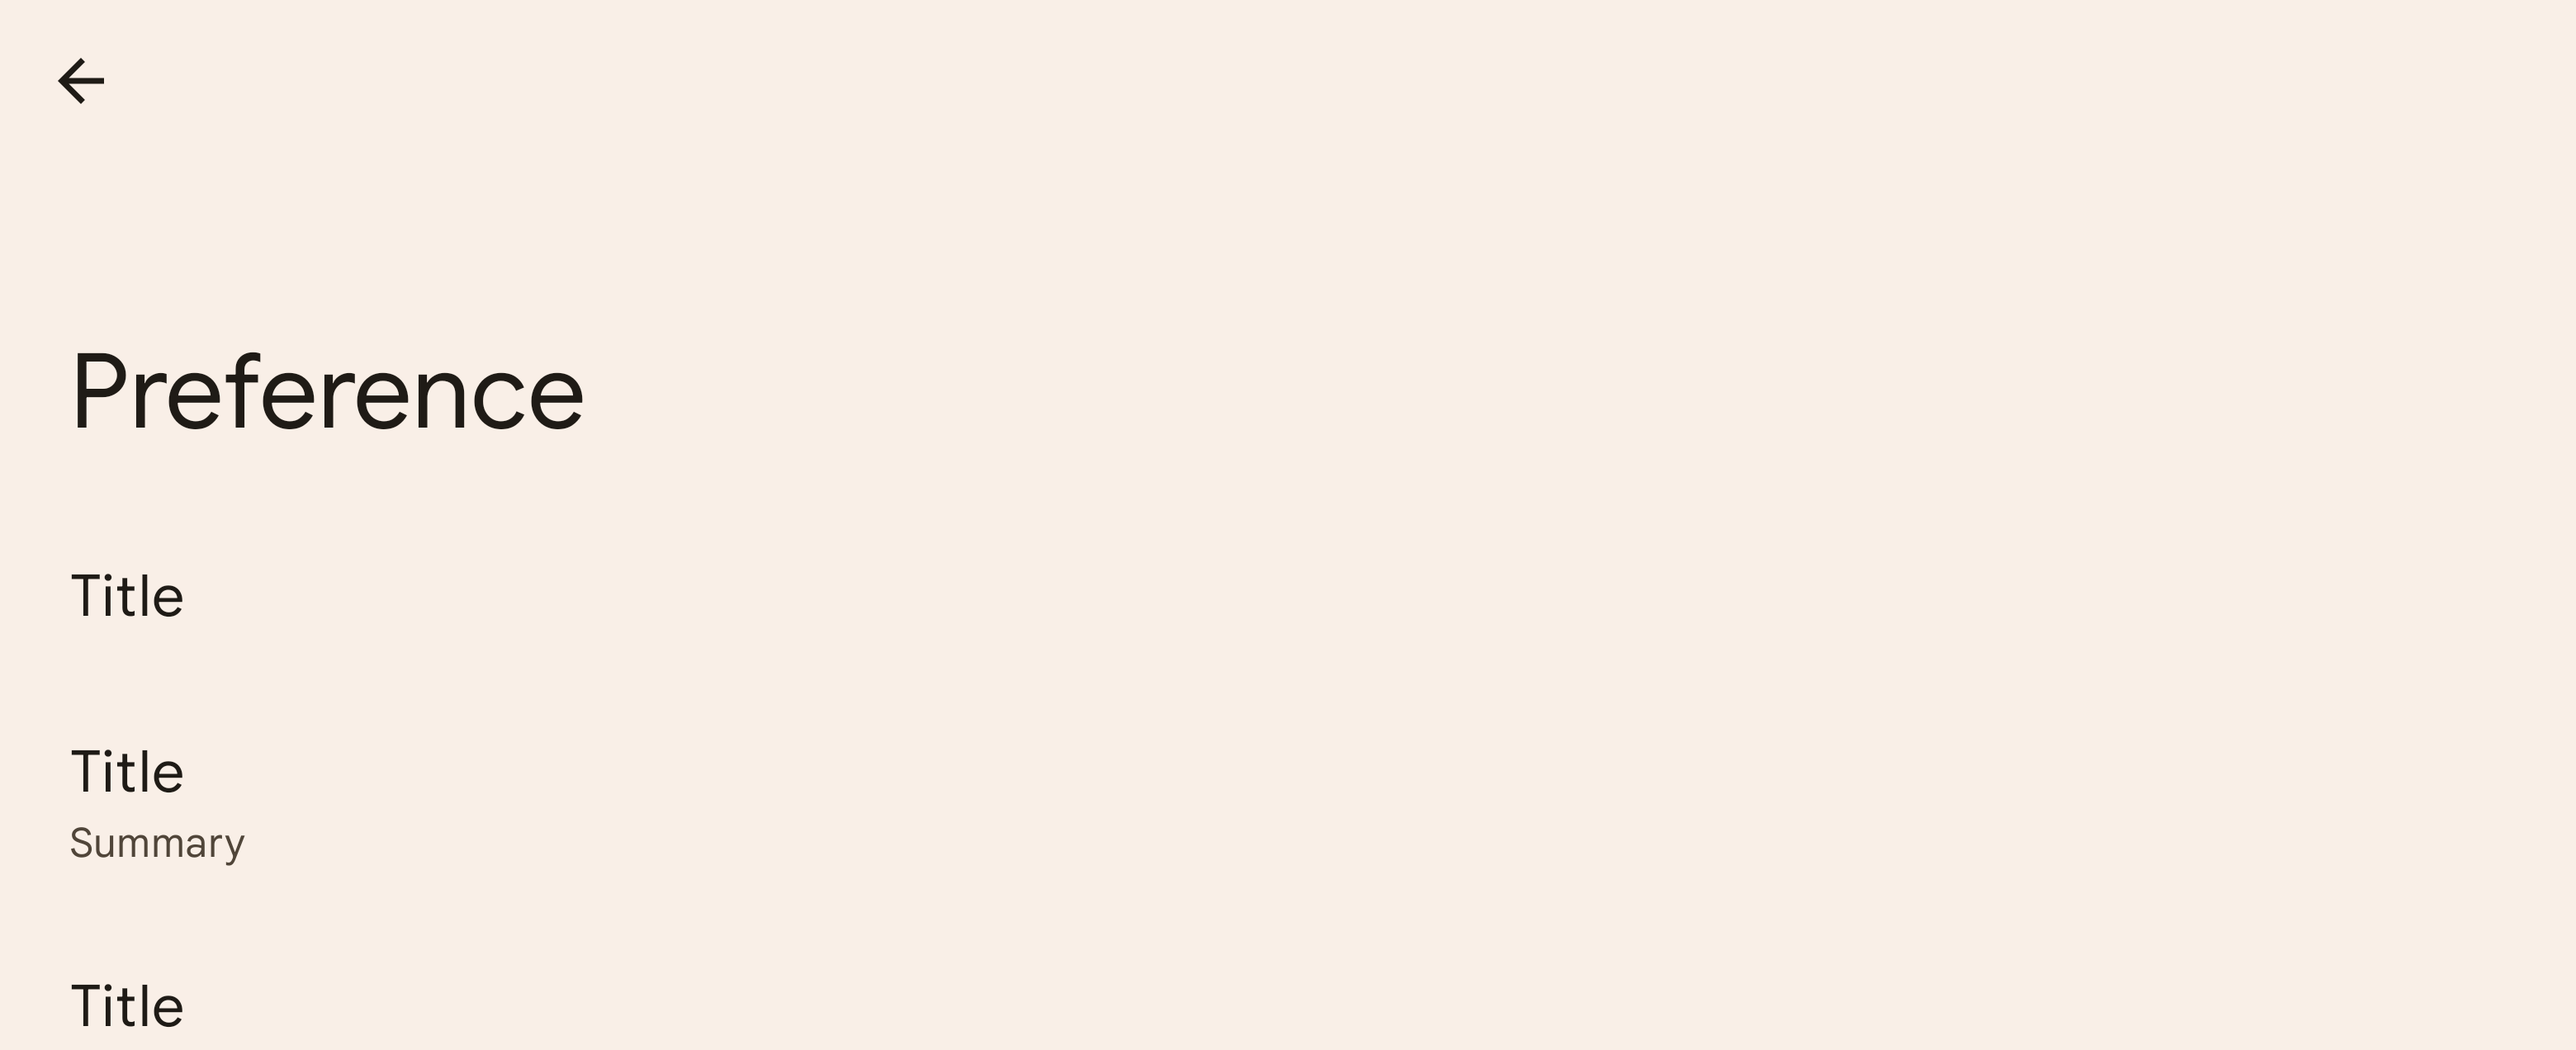
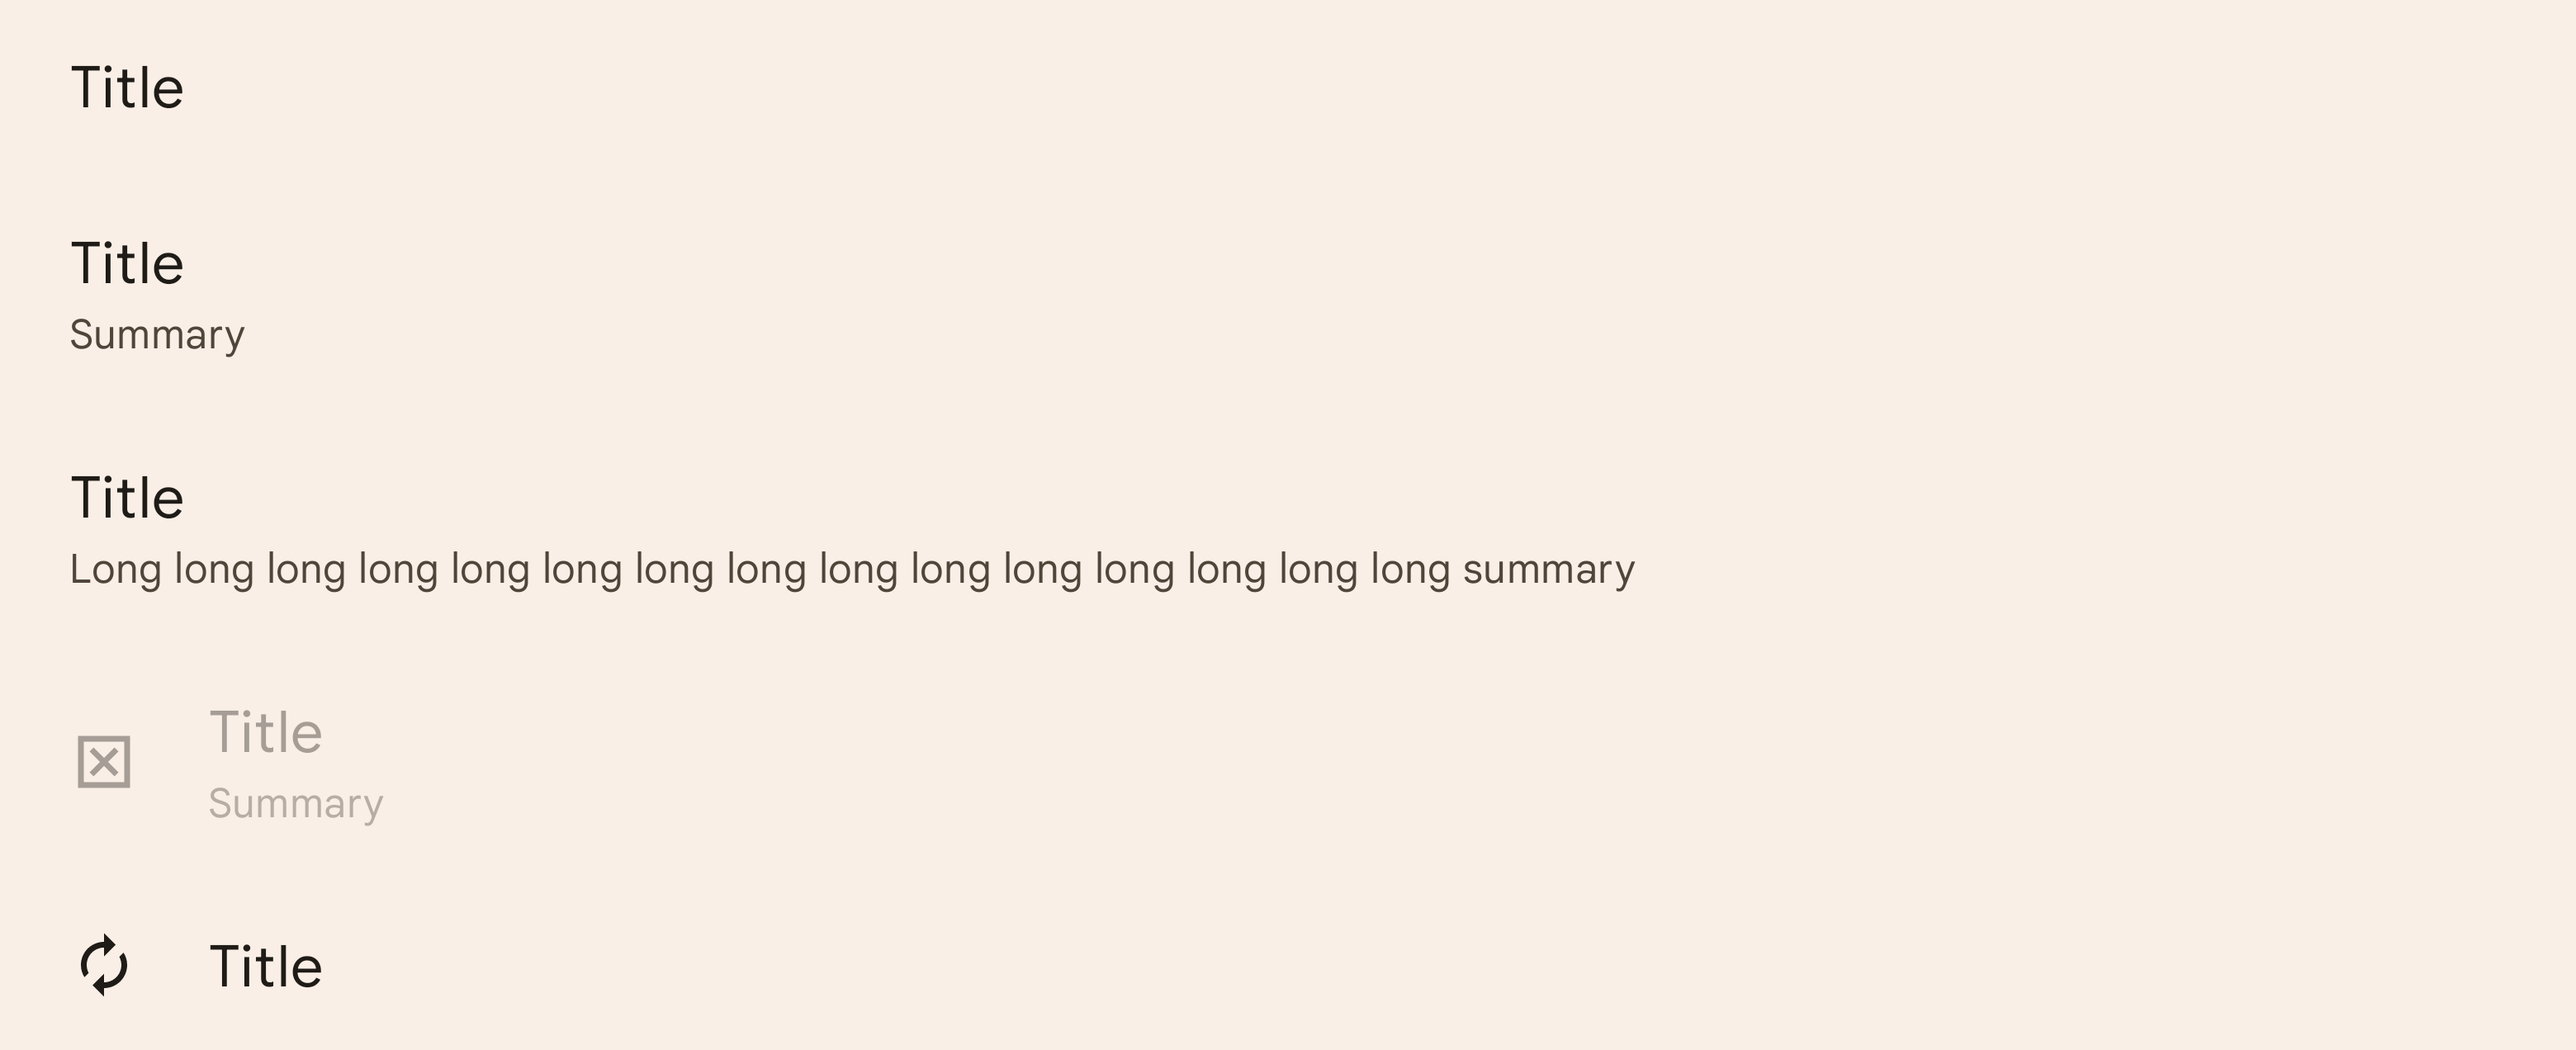
Update screebshot diff tests to make the tests more stable.
Test: presubmit
Bug: 256770697

diff --git a/packages/SettingsLib/Spa/screenshot/src/com/android/settingslib/spa/screenshot/widget/preference/PreferenceScreenshotTest.kt b/packages/SettingsLib/Spa/screenshot/src/com/android/settingslib/spa/screenshot/widget/preference/PreferenceScreenshotTest.kt
@@ -16,6 +16,7 @@
 
 package com.android.settingslib.spa.screenshot
 
+import androidx.compose.foundation.layout.Column
 import androidx.compose.material.icons.Icons
 import androidx.compose.material.icons.outlined.Autorenew
 import androidx.compose.material.icons.outlined.DisabledByDefault
@@ -23,7 +24,6 @@ import androidx.compose.runtime.Composable
 import com.android.settingslib.spa.framework.compose.toState
 import com.android.settingslib.spa.widget.preference.Preference
 import com.android.settingslib.spa.widget.preference.PreferenceModel
-import com.android.settingslib.spa.widget.scaffold.RegularScaffold
 import com.android.settingslib.spa.widget.ui.SettingsIcon
 import org.junit.Rule
 import org.junit.Test
@@ -37,7 +37,7 @@ class PreferenceScreenshotTest(emulationSpec: DeviceEmulationSpec) {
     companion object {
         @Parameterized.Parameters(name = "{0}")
         @JvmStatic
-        fun getTestSpecs() = DeviceEmulationSpec.PhoneAndTabletFull
+        fun getTestSpecs() = DeviceEmulationSpec.PhoneAndTabletMinimal
         private const val TITLE = "Title"
         private const val SUMMARY = "Summary"
         private const val LONG_SUMMARY =
@@ -54,7 +54,7 @@ class PreferenceScreenshotTest(emulationSpec: DeviceEmulationSpec) {
     @Test
     fun test() {
         screenshotRule.screenshotTest("preference") {
-            RegularScaffold(title = "Preference") {
+            Column {
                 Preference(object : PreferenceModel {
                     override val title = TITLE
                 })

diff --git a/packages/SettingsLib/Spa/screenshot/src/com/android/settingslib/spa/screenshot/widget/preference/ProgressBarPreferenceScreenshotTest.kt b/packages/SettingsLib/Spa/screenshot/src/com/android/settingslib/spa/screenshot/widget/preference/ProgressBarPreferenceScreenshotTest.kt
@@ -16,6 +16,7 @@
 
 package com.android.settingslib.spa.screenshot
 
+import androidx.compose.foundation.layout.Column
 import androidx.compose.material.icons.Icons
 import androidx.compose.material.icons.outlined.Delete
 import androidx.compose.material.icons.outlined.SystemUpdate
@@ -23,7 +24,6 @@ import androidx.compose.runtime.Composable
 import com.android.settingslib.spa.widget.preference.ProgressBarPreference
 import com.android.settingslib.spa.widget.preference.ProgressBarPreferenceModel
 import com.android.settingslib.spa.widget.preference.ProgressBarWithDataPreference
-import com.android.settingslib.spa.widget.scaffold.RegularScaffold
 import com.android.settingslib.spa.widget.ui.CircularProgressBar
 import org.junit.Rule
 import org.junit.Test
@@ -37,7 +37,7 @@ class ProgressBarPreferenceScreenshotTest(emulationSpec: DeviceEmulationSpec) {
     companion object {
         @Parameterized.Parameters(name = "{0}")
         @JvmStatic
-        fun getTestSpecs() = DeviceEmulationSpec.PhoneAndTabletFull
+        fun getTestSpecs() = DeviceEmulationSpec.PhoneAndTabletMinimal
     }
 
     @get:Rule
@@ -50,7 +50,7 @@ class ProgressBarPreferenceScreenshotTest(emulationSpec: DeviceEmulationSpec) {
     @Test
     fun test() {
         screenshotRule.screenshotTest("progressBar") {
-            RegularScaffold(title = "ProgressBar") {
+            Column {
                 LargeProgressBar()
                 SimpleProgressBar()
                 ProgressBarWithData()

diff --git a/packages/SettingsLib/Spa/screenshot/src/com/android/settingslib/spa/screenshot/widget/preference/SwitchPreferenceScreenshotTest.kt b/packages/SettingsLib/Spa/screenshot/src/com/android/settingslib/spa/screenshot/widget/preference/SwitchPreferenceScreenshotTest.kt
@@ -16,13 +16,13 @@
 
 package com.android.settingslib.spa.screenshot
 
+import androidx.compose.foundation.layout.Column
 import androidx.compose.material.icons.Icons
 import androidx.compose.material.icons.outlined.AirplanemodeActive
 import androidx.compose.runtime.Composable
 import com.android.settingslib.spa.framework.compose.stateOf
 import com.android.settingslib.spa.widget.preference.SwitchPreference
 import com.android.settingslib.spa.widget.preference.SwitchPreferenceModel
-import com.android.settingslib.spa.widget.scaffold.RegularScaffold
 import com.android.settingslib.spa.widget.ui.SettingsIcon
 import org.junit.Rule
 import org.junit.Test
@@ -36,7 +36,7 @@ class SwitchPreferenceScreenshotTest(emulationSpec: DeviceEmulationSpec) {
     companion object {
         @Parameterized.Parameters(name = "{0}")
         @JvmStatic
-        fun getTestSpecs() = DeviceEmulationSpec.PhoneAndTabletFull
+        fun getTestSpecs() = DeviceEmulationSpec.PhoneAndTabletMinimal
     }
 
     @get:Rule
@@ -49,7 +49,7 @@ class SwitchPreferenceScreenshotTest(emulationSpec: DeviceEmulationSpec) {
     @Test
     fun test() {
         screenshotRule.screenshotTest("switchPreference") {
-            RegularScaffold(title = "SwitchPreference") {
+            Column {
                 SampleSwitchPreference()
                 SampleSwitchPreferenceWithSummary()
                 SampleNotChangeableSwitchPreference()

diff --git a/packages/SettingsLib/Spa/screenshot/src/com/android/settingslib/spa/screenshot/widget/preference/TwoTargetSwitchPreferenceScreenshotTest.kt b/packages/SettingsLib/Spa/screenshot/src/com/android/settingslib/spa/screenshot/widget/preference/TwoTargetSwitchPreferenceScreenshotTest.kt
@@ -16,10 +16,10 @@
 
 package com.android.settingslib.spa.screenshot
 
+import androidx.compose.foundation.layout.Column
 import com.android.settingslib.spa.framework.compose.stateOf
 import com.android.settingslib.spa.widget.preference.TwoTargetSwitchPreference
 import com.android.settingslib.spa.widget.preference.SwitchPreferenceModel
-import com.android.settingslib.spa.widget.scaffold.RegularScaffold
 import org.junit.Rule
 import org.junit.Test
 import org.junit.runner.RunWith
@@ -32,7 +32,7 @@ class TwoTargetSwitchPreferenceScreenshotTest(emulationSpec: DeviceEmulationSpec
     companion object {
         @Parameterized.Parameters(name = "{0}")
         @JvmStatic
-        fun getTestSpecs() = DeviceEmulationSpec.PhoneAndTabletFull
+        fun getTestSpecs() = DeviceEmulationSpec.PhoneAndTabletMinimal
     }
 
     @get:Rule
@@ -45,7 +45,7 @@ class TwoTargetSwitchPreferenceScreenshotTest(emulationSpec: DeviceEmulationSpec
     @Test
     fun test() {
         screenshotRule.screenshotTest("twoTargetSwitchPreference") {
-            RegularScaffold(title = "TwoTargetSwitchPreference") {
+            Column {
                 TwoTargetSwitchPreference(object : SwitchPreferenceModel {
                     override val title = "TwoTargetSwitchPreference"
                     override val checked = stateOf(false)

diff --git a/packages/SettingsLib/Spa/screenshot/src/com/android/settingslib/spa/screenshot/widget/preference/SliderPreferenceScreenshotTest.kt b/packages/SettingsLib/Spa/screenshot/src/com/android/settingslib/spa/screenshot/widget/preference/SliderPreferenceScreenshotTest.kt
@@ -16,11 +16,11 @@
 
 package com.android.settingslib.spa.screenshot
 
+import androidx.compose.foundation.layout.Column
 import androidx.compose.material.icons.Icons
 import androidx.compose.material.icons.outlined.AccessAlarm
 import com.android.settingslib.spa.widget.preference.SliderPreference
 import com.android.settingslib.spa.widget.preference.SliderPreferenceModel
-import com.android.settingslib.spa.widget.scaffold.RegularScaffold
 import org.junit.Rule
 import org.junit.Test
 import org.junit.runner.RunWith
@@ -33,7 +33,7 @@ class SliderPreferenceScreenshotTest(emulationSpec: DeviceEmulationSpec) {
     companion object {
         @Parameterized.Parameters(name = "{0}")
         @JvmStatic
-        fun getTestSpecs() = DeviceEmulationSpec.PhoneAndTabletFull
+        fun getTestSpecs() = DeviceEmulationSpec.PhoneAndTabletMinimal
     }
 
     @get:Rule
@@ -46,7 +46,7 @@ class SliderPreferenceScreenshotTest(emulationSpec: DeviceEmulationSpec) {
     @Test
     fun test() {
         screenshotRule.screenshotTest("slider") {
-            RegularScaffold(title = "Slider") {
+            Column {
                 SliderPreference(object : SliderPreferenceModel {
                     override val title = "Simple Slider"
                     override val initValue = 40

diff --git a/packages/SettingsLib/Spa/screenshot/src/com/android/settingslib/spa/screenshot/widget/preference/MainSwitchPreferenceScreenshotTest.kt b/packages/SettingsLib/Spa/screenshot/src/com/android/settingslib/spa/screenshot/widget/preference/MainSwitchPreferenceScreenshotTest.kt
@@ -16,10 +16,10 @@
 
 package com.android.settingslib.spa.screenshot
 
+import androidx.compose.foundation.layout.Column
 import com.android.settingslib.spa.framework.compose.stateOf
 import com.android.settingslib.spa.widget.preference.MainSwitchPreference
 import com.android.settingslib.spa.widget.preference.SwitchPreferenceModel
-import com.android.settingslib.spa.widget.scaffold.RegularScaffold
 import org.junit.Rule
 import org.junit.Test
 import org.junit.runner.RunWith
@@ -32,7 +32,7 @@ class MainSwitchPreferenceScreenshotTest(emulationSpec: DeviceEmulationSpec) {
     companion object {
         @Parameterized.Parameters(name = "{0}")
         @JvmStatic
-        fun getTestSpecs() = DeviceEmulationSpec.PhoneAndTabletFull
+        fun getTestSpecs() = DeviceEmulationSpec.PhoneAndTabletMinimal
     }
 
     @get:Rule
@@ -45,7 +45,7 @@ class MainSwitchPreferenceScreenshotTest(emulationSpec: DeviceEmulationSpec) {
     @Test
     fun test() {
         screenshotRule.screenshotTest("mainSwitchPreference") {
-            RegularScaffold(title = "MainSwitchPreference") {
+            Column {
                 MainSwitchPreference(
                     object : SwitchPreferenceModel {
                         override val title = "MainSwitchPreference"

diff --git a/packages/SettingsLib/Spa/screenshot/src/com/android/settingslib/spa/screenshot/widget/illustration/ImageIllustrationScreenshotTest.kt b/packages/SettingsLib/Spa/screenshot/src/com/android/settingslib/spa/screenshot/widget/illustration/ImageIllustrationScreenshotTest.kt
@@ -31,7 +31,7 @@ class ImageIllustrationScreenshotTest(emulationSpec: DeviceEmulationSpec) {
     companion object {
         @Parameterized.Parameters(name = "{0}")
         @JvmStatic
-        fun getTestSpecs() = DeviceEmulationSpec.PhoneAndTabletFull
+        fun getTestSpecs() = DeviceEmulationSpec.PhoneAndTabletMinimal
     }
 
     @get:Rule

diff --git a/packages/SettingsLib/Spa/screenshot/src/com/android/settingslib/spa/screenshot/widget/button/ActionButtonsScreenshotTest.kt b/packages/SettingsLib/Spa/screenshot/src/com/android/settingslib/spa/screenshot/widget/button/ActionButtonsScreenshotTest.kt
@@ -34,7 +34,7 @@ class ActionButtonsScreenshotTest(emulationSpec: DeviceEmulationSpec) {
     companion object {
         @Parameterized.Parameters(name = "{0}")
         @JvmStatic
-        fun getTestSpecs() = DeviceEmulationSpec.PhoneAndTabletFull
+        fun getTestSpecs() = DeviceEmulationSpec.PhoneAndTabletMinimal
     }
 
     @get:Rule

diff --git a/packages/SettingsLib/Spa/screenshot/src/com/android/settingslib/spa/screenshot/widget/chart/LineChartScreenshotTest.kt b/packages/SettingsLib/Spa/screenshot/src/com/android/settingslib/spa/screenshot/widget/chart/LineChartScreenshotTest.kt
@@ -33,7 +33,7 @@ class LineChartScreenshotTest(emulationSpec: DeviceEmulationSpec) {
     companion object {
         @Parameterized.Parameters(name = "{0}")
         @JvmStatic
-        fun getTestSpecs() = DeviceEmulationSpec.PhoneAndTabletFull
+        fun getTestSpecs() = DeviceEmulationSpec.PhoneAndTabletMinimal
     }
 
     @get:Rule

diff --git a/packages/SettingsLib/Spa/screenshot/src/com/android/settingslib/spa/screenshot/widget/chart/BarChartScreenshotTest.kt b/packages/SettingsLib/Spa/screenshot/src/com/android/settingslib/spa/screenshot/widget/chart/BarChartScreenshotTest.kt
@@ -32,7 +32,7 @@ class BarChartScreenshotTest(emulationSpec: DeviceEmulationSpec) {
     companion object {
         @Parameterized.Parameters(name = "{0}")
         @JvmStatic
-        fun getTestSpecs() = DeviceEmulationSpec.PhoneAndTabletFull
+        fun getTestSpecs() = DeviceEmulationSpec.PhoneAndTabletMinimal
     }
 
     @get:Rule

diff --git a/packages/SettingsLib/Spa/screenshot/src/com/android/settingslib/spa/screenshot/widget/chart/PieChartScreenshotTest.kt b/packages/SettingsLib/Spa/screenshot/src/com/android/settingslib/spa/screenshot/widget/chart/PieChartScreenshotTest.kt
@@ -31,7 +31,7 @@ class PieChartScreenshotTest(emulationSpec: DeviceEmulationSpec) {
     companion object {
         @Parameterized.Parameters(name = "{0}")
         @JvmStatic
-        fun getTestSpecs() = DeviceEmulationSpec.PhoneAndTabletFull
+        fun getTestSpecs() = DeviceEmulationSpec.PhoneAndTabletMinimal
     }
 
     @get:Rule

diff --git a/packages/SettingsLib/Spa/screenshot/src/com/android/settingslib/spa/screenshot/widget/ui/SpinnerScreenshotTest.kt b/packages/SettingsLib/Spa/screenshot/src/com/android/settingslib/spa/screenshot/widget/ui/SpinnerScreenshotTest.kt
@@ -29,7 +29,7 @@ class SpinnerScreenshotTest(emulationSpec: DeviceEmulationSpec) {
     companion object {
         @Parameterized.Parameters(name = "{0}")
         @JvmStatic
-        fun getTestSpecs() = DeviceEmulationSpec.PhoneAndTabletFull
+        fun getTestSpecs() = DeviceEmulationSpec.PhoneAndTabletMinimal
     }
 
     @get:Rule
